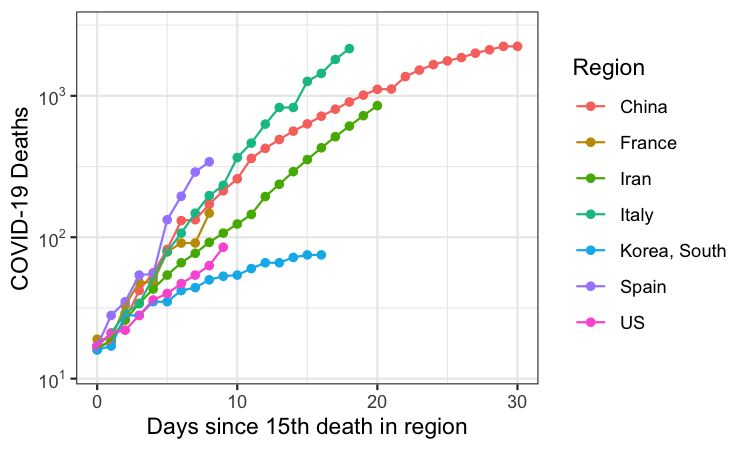
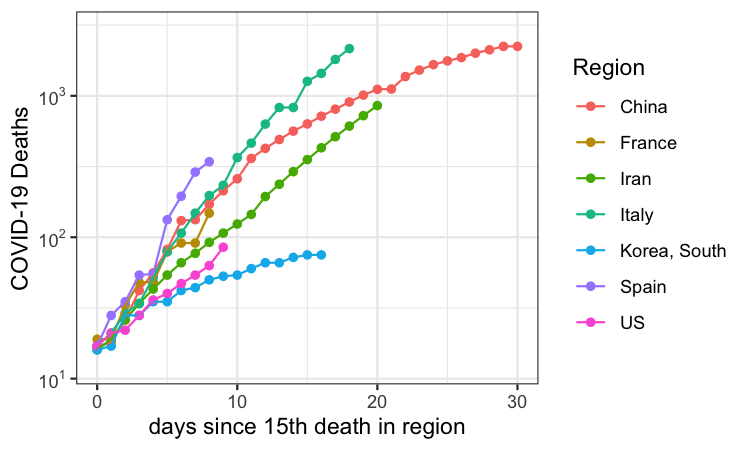
change axes labels

Changed region(s): [[0.184, 0.9022, 0.644, 0.9956]]

diff --git a/README.md b/README.md
@@ -1,18 +1,13 @@
 report-COVID-19
 ================
 Thomas Gredig
-3/12/2020
+3/17/2020
 
 # COVID-19
 
-We determine the order of countries it spread using the exponential
-growth model and determine that it started in China, then spread to
-Iran, South Korea, Italy, U.S., France, and then Spain based on
-confirmed deaths.
-
-Japan and South Korea have a much slower growth in the death rate (see
-graph at the bottom). China, Italy, and U.S. appear to have common
-trajectories.
+We are comparing the growth rates in different regions. Using a 1-fit
+exponential model, the confirmed cases generally fit the model well. The
+doubling time is then compared.
 
 The data is from the [CSSE COVID-19
 Dataset](https://github.com/CSSEGISandData/COVID-19) after analysis of
